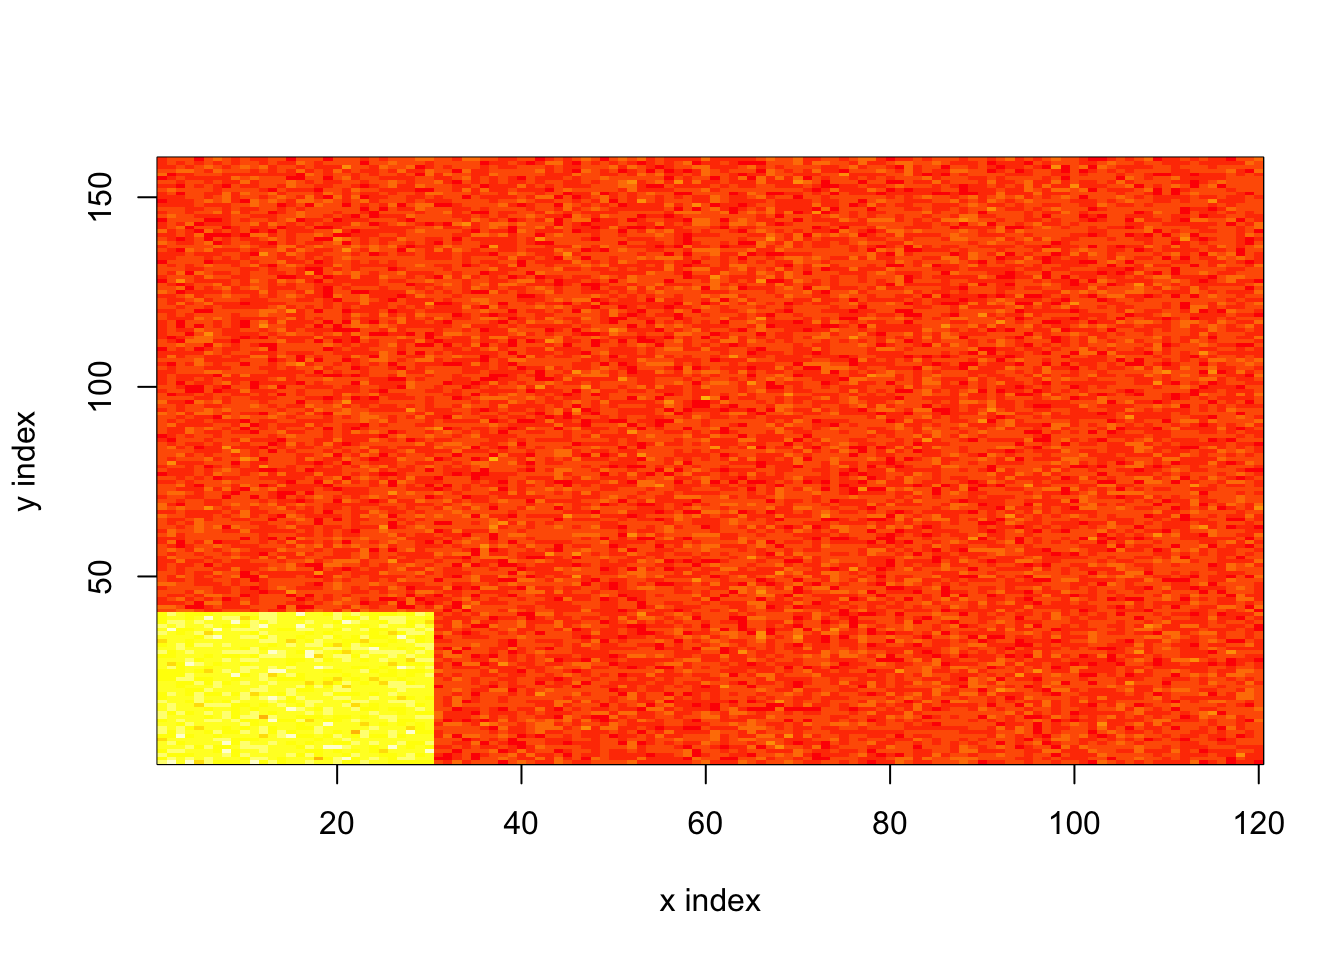
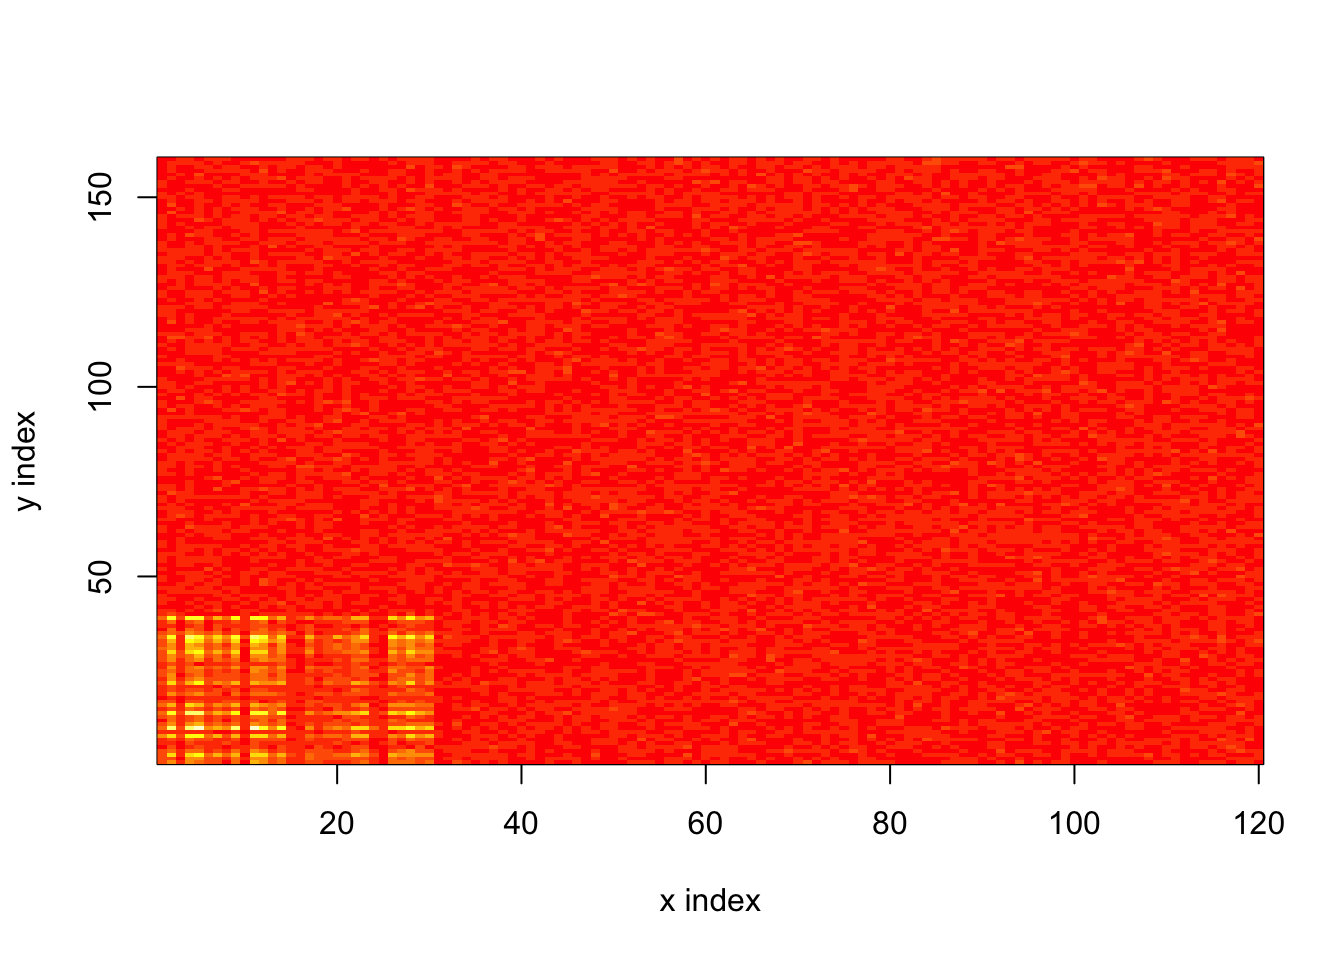
Build site.

diff --git a/docs/count_shrinkage.html b/docs/count_shrinkage.html
@@ -440,7 +440,7 @@ div.section {
 </details>
 </li>
 <li>
-<p><details> <summary> <strong style="color:blue;">✔</strong> <strong>Repository version:</strong> <a href="https://github.com/willwerscheid/FLASHvestigations/tree/5eaa875aa97b815b07d175aaaee3782a22576b3e" target="_blank">5eaa875</a> </summary></p>
+<p><details> <summary> <strong style="color:blue;">✔</strong> <strong>Repository version:</strong> <a href="https://github.com/willwerscheid/FLASHvestigations/tree/0c4f8456dfe7f92072ff7b9f6374f29eee696062" target="_blank">0c4f845</a> </summary></p>
 Great! You are using Git for version control. Tracking code development and connecting the code version to the results is critical for reproducibility. The version displayed above was the version of the Git repository at the time these results were generated. <br><br> Note that you need to be careful to ensure that all relevant files for the analysis have been committed to Git prior to generating the results (you can use <code>wflow_publish</code> or <code>wflow_git_commit</code>). workflowr only checks the R Markdown file, but you know if there are other scripts or data files that it depends on. Below is the status of the Git repository when the results were generated:
 <pre><code>
 Ignored files:
@@ -494,6 +494,40 @@ Message
 Rmd
 </td>
 <td style="text-align:left;">
+<a href="https://github.com/willwerscheid/FLASHvestigations/blob/0c4f8456dfe7f92072ff7b9f6374f29eee696062/analysis/count_shrinkage.Rmd" target="_blank">0c4f845</a>
+</td>
+<td style="text-align:left;">
+Jason Willwerscheid
+</td>
+<td style="text-align:left;">
+2019-02-13
+</td>
+<td style="text-align:left;">
+wflow_publish(“analysis/count_shrinkage.Rmd”)
+</td>
+</tr>
+<tr>
+<td style="text-align:left;">
+html
+</td>
+<td style="text-align:left;">
+<a href="https://cdn.rawgit.com/willwerscheid/FLASHvestigations/38224ab48301ec5f8790a200b9ba2dae332887c2/docs/count_shrinkage.html" target="_blank">38224ab</a>
+</td>
+<td style="text-align:left;">
+Jason Willwerscheid
+</td>
+<td style="text-align:left;">
+2019-02-13
+</td>
+<td style="text-align:left;">
+Build site.
+</td>
+</tr>
+<tr>
+<td style="text-align:left;">
+Rmd
+</td>
+<td style="text-align:left;">
 <a href="https://github.com/willwerscheid/FLASHvestigations/blob/5eaa875aa97b815b07d175aaaee3782a22576b3e/analysis/count_shrinkage.Rmd" target="_blank">5eaa875</a>
 </td>
 <td style="text-align:left;">
@@ -532,13 +566,13 @@ wflow_publish(“analysis/count_shrinkage.Rmd”)
 </div>
 <div id="example" class="section level2">
 <h2>Example</h2>
-<p>To illustrate why this approach is a good idea, I consider a simple example with a low-intensity baseline and a block of high intensity:</p>
+<p>To illustrate the approach, I consider a very simple example with a low-intensity baseline and a block of higher intensity:</p>
 <pre class="r"><code>set.seed(666)
 n &lt;- 120
 p &lt;- 160
 
-log.lambda &lt;- (-1 + outer(c(rep(2, n / 4), rep(0, 3 * n / 4)),
-                          c(rep(2, p / 4), rep(0, 3 * p / 4)))
+log.lambda &lt;- (-1 + outer(c(2 * abs(rnorm(0.25 * n)), rep(0, 0.75 * n)),
+                          c(abs(rnorm(0.25 * p)), rep(0, 0.75 * p)))
                + 0.5 * rnorm(n * p))
 Y &lt;- matrix(rpois(n * p, exp(log.lambda)), n, p)
 
@@ -551,6 +585,36 @@ hi.cols[1:(p / 4)] &lt;- TRUE
 # Show heatmap.
 image(x = 1:n, y = 1:p, z = log.lambda, xlab = &quot;x index&quot;, ylab = &quot;y index&quot;)</code></pre>
 <p><img src="figure/count_shrinkage.Rmd/simY-1.png" width="672" style="display: block; margin: auto;" /></p>
+<details> <summary><em>Expand here to see past versions of simY-1.png:</em></summary>
+<table style="border-collapse:separate; border-spacing:5px;">
+<thead>
+<tr>
+<th style="text-align:left;">
+Version
+</th>
+<th style="text-align:left;">
+Author
+</th>
+<th style="text-align:left;">
+Date
+</th>
+</tr>
+</thead>
+<tbody>
+<tr>
+<td style="text-align:left;">
+<a href="https://github.com/willwerscheid/FLASHvestigations/blob/38224ab48301ec5f8790a200b9ba2dae332887c2/docs/figure/count_shrinkage.Rmd/simY-1.png" target="_blank">38224ab</a>
+</td>
+<td style="text-align:left;">
+Jason Willwerscheid
+</td>
+<td style="text-align:left;">
+2019-02-13
+</td>
+</tr>
+</tbody>
+</table>
+<p></details></p>
 <p>The usual approach would run FLASH as follows.</p>
 <pre class="r"><code># Use my own branch due to bug in stephens999/master.
 devtools::load_all(&quot;~/Github/ashr&quot;)</code></pre>
@@ -586,7 +650,6 @@ fl.ash &lt;- flashier(X, S = S, var.type = 0,
 Adding factor 1 to flash object...
 Adding factor 2 to flash object...
 Adding factor 3 to flash object...
-An iteration decreased the objective by 1.75e+00. Try backfitting with warmstarts.
 Factor doesn&#39;t increase objective and won&#39;t be added.
 Nullchecking 2 factors...
 Wrapping up...
@@ -612,16 +675,24 @@ fl.colw &lt;- flashier(colw.X, S = colw.S, var.type = 0,
 Adding factor 1 to flash object...
 Adding factor 2 to flash object...
 Adding factor 3 to flash object...
+Adding factor 4 to flash object...
 Factor doesn&#39;t increase objective and won&#39;t be added.
-Nullchecking 2 factors...
+Nullchecking 3 factors...
 Wrapping up...
 Done.</code></pre>
+<p>(Note that three factors are fit here. The third is loaded on a small number of columns and accounts for a very small proportion of total variance. Such factors are frequently found when using Gaussian methods on Poisson data.)</p>
 <p>I calculate the root mean-squared error and the mean shrinkage obtained using each method. I calculate separately for large <span class="math inline">\(\lambda_{ij}\)</span>, small <span class="math inline">\(\lambda_{ij}\)</span> in columns where all values are small, and small <span class="math inline">\(\lambda_{ij}\)</span> in columns where some values are large.</p>
-<pre class="r"><code>get.res &lt;- function(fl) {
+<pre class="r"><code>get.res &lt;- function(fl, log1p) {
   preds &lt;- flashier:::lowrank.expand(get.EF(fl$fit))
-  hi.resid &lt;- preds[hi.rows, hi.cols] - log.lambda[hi.rows, hi.cols]
-  lo.resid &lt;- preds[, !hi.cols] - log.lambda[, !hi.cols]
-  mix.resid &lt;- preds[!hi.rows, hi.cols] - log.lambda[!hi.rows, hi.cols]
+  # &quot;De-bias&quot; the log1p method by transforming everything to the log1p scale.
+  true.vals &lt;- log(exp(log.lambda) + 1)
+  if (!log1p)
+    preds &lt;- log(exp(preds) + 1)
+  
+  hi.resid &lt;- preds[hi.rows, hi.cols] - true.vals[hi.rows, hi.cols]
+  lo.resid &lt;- preds[, !hi.cols] - true.vals[, !hi.cols]
+  mix.resid &lt;- preds[!hi.rows, hi.cols] - true.vals[!hi.rows, hi.cols]
+  
   res &lt;- list(rmse.hi = sqrt(mean((hi.resid)^2)),
               rmse.lo = sqrt(mean((lo.resid)^2)),
               rmse.mix = sqrt(mean((mix.resid)^2)),
@@ -629,10 +700,13 @@ Done.</code></pre>
               shrnk.lo = -mean(lo.resid),
               shrnk.mix = -mean(mix.resid))
   res &lt;- lapply(res, round, 2)
+  
   return(res)
 }
 
-res &lt;- data.frame(cbind(get.res(fl.log1p), get.res(fl.ash), get.res(fl.colw)))
+res &lt;- data.frame(cbind(get.res(fl.log1p, TRUE), 
+                        get.res(fl.ash, FALSE), 
+                        get.res(fl.colw, FALSE)))
 var.names &lt;- c(&quot;RMSE (lg vals)&quot;, 
                &quot;RMSE (sm vals)&quot;, 
                &quot;RMSE (sm vals in lg cols)&quot;, 
@@ -656,44 +730,43 @@ knitr::kable(res, digits = 2)</code></pre>
 <tbody>
 <tr class="odd">
 <td>RMSE (lg vals)</td>
-<td align="left">0.48</td>
-<td align="left">0.49</td>
-<td align="left">0.49</td>
+<td align="left">0.33</td>
+<td align="left">0.45</td>
+<td align="left">0.39</td>
 </tr>
 <tr class="even">
 <td>RMSE (sm vals)</td>
-<td align="left">1.34</td>
-<td align="left">0.6</td>
-<td align="left">0.57</td>
+<td align="left">0.18</td>
+<td align="left">0.17</td>
+<td align="left">0.17</td>
 </tr>
 <tr class="odd">
 <td>RMSE (sm vals in lg cols)</td>
-<td align="left">1.36</td>
-<td align="left">0.59</td>
-<td align="left">1.11</td>
+<td align="left">0.18</td>
+<td align="left">0.17</td>
+<td align="left">0.19</td>
 </tr>
 <tr class="even">
 <td>Mean shrinkage (lg vals)</td>
-<td align="left">0</td>
-<td align="left">-0.08</td>
-<td align="left">-0.05</td>
+<td align="left">0.11</td>
+<td align="left">0.26</td>
+<td align="left">0.21</td>
 </tr>
 <tr class="odd">
 <td>Mean shrinkage (sm vals)</td>
-<td align="left">-1.25</td>
-<td align="left">0.33</td>
-<td align="left">0.2</td>
+<td align="left">0.09</td>
+<td align="left">0.08</td>
+<td align="left">0.07</td>
 </tr>
 <tr class="even">
 <td>Mean shrinkage (sm vals in lg cols)</td>
-<td align="left">-1.27</td>
-<td align="left">0.31</td>
-<td align="left">0.89</td>
+<td align="left">0.08</td>
+<td align="left">0.09</td>
+<td align="left">0.1</td>
 </tr>
 </tbody>
 </table>
-<p>If we care about controlling FDR, then the RMSE is unimportant on its own. Indeed, while the log1p and column-wise ASH methods perform similarly in terms of RMSE, the log1p approach tends to yield anti-conservative estimates for small <span class="math inline">\(\lambda_{ij}\)</span>, while the column-wise ASH approach “errs” by shrinking the estimates towards zero. The latter is much more desirable from the perspective of FDR control.</p>
-<p>I’m surprised that <code>ashr</code> shrinks small <span class="math inline">\(\lambda_{ij}\)</span> more in columns where there are some large <span class="math inline">\(\lambda_{ij}\)</span>: I expected the opposite. For a reason that at present eludes me, <code>ashr</code> is more likely to put mass on the null component when some values are large (when all are small, then it rarely puts any mass on the null component).</p>
+<p>Although the usual log1p method does best in terms of RMSE, the new methods do better in shrinking larger rates, which might be advantageous for FDR control. Another possible advantage of the new methods is that they give estimates on the log scale and are thus easy to interpret. The log1p approach can return negative fitted values, which must be thresholded to zero after the fact.</p>
 <!-- ## Appendix -->
 <!-- Under the first model, of course, -->
 <!-- $$ \mathbb{E}(Y_{ij}) = \text{Var}(Y_{ij}) = \exp(LF')_{ij} $$ -->
